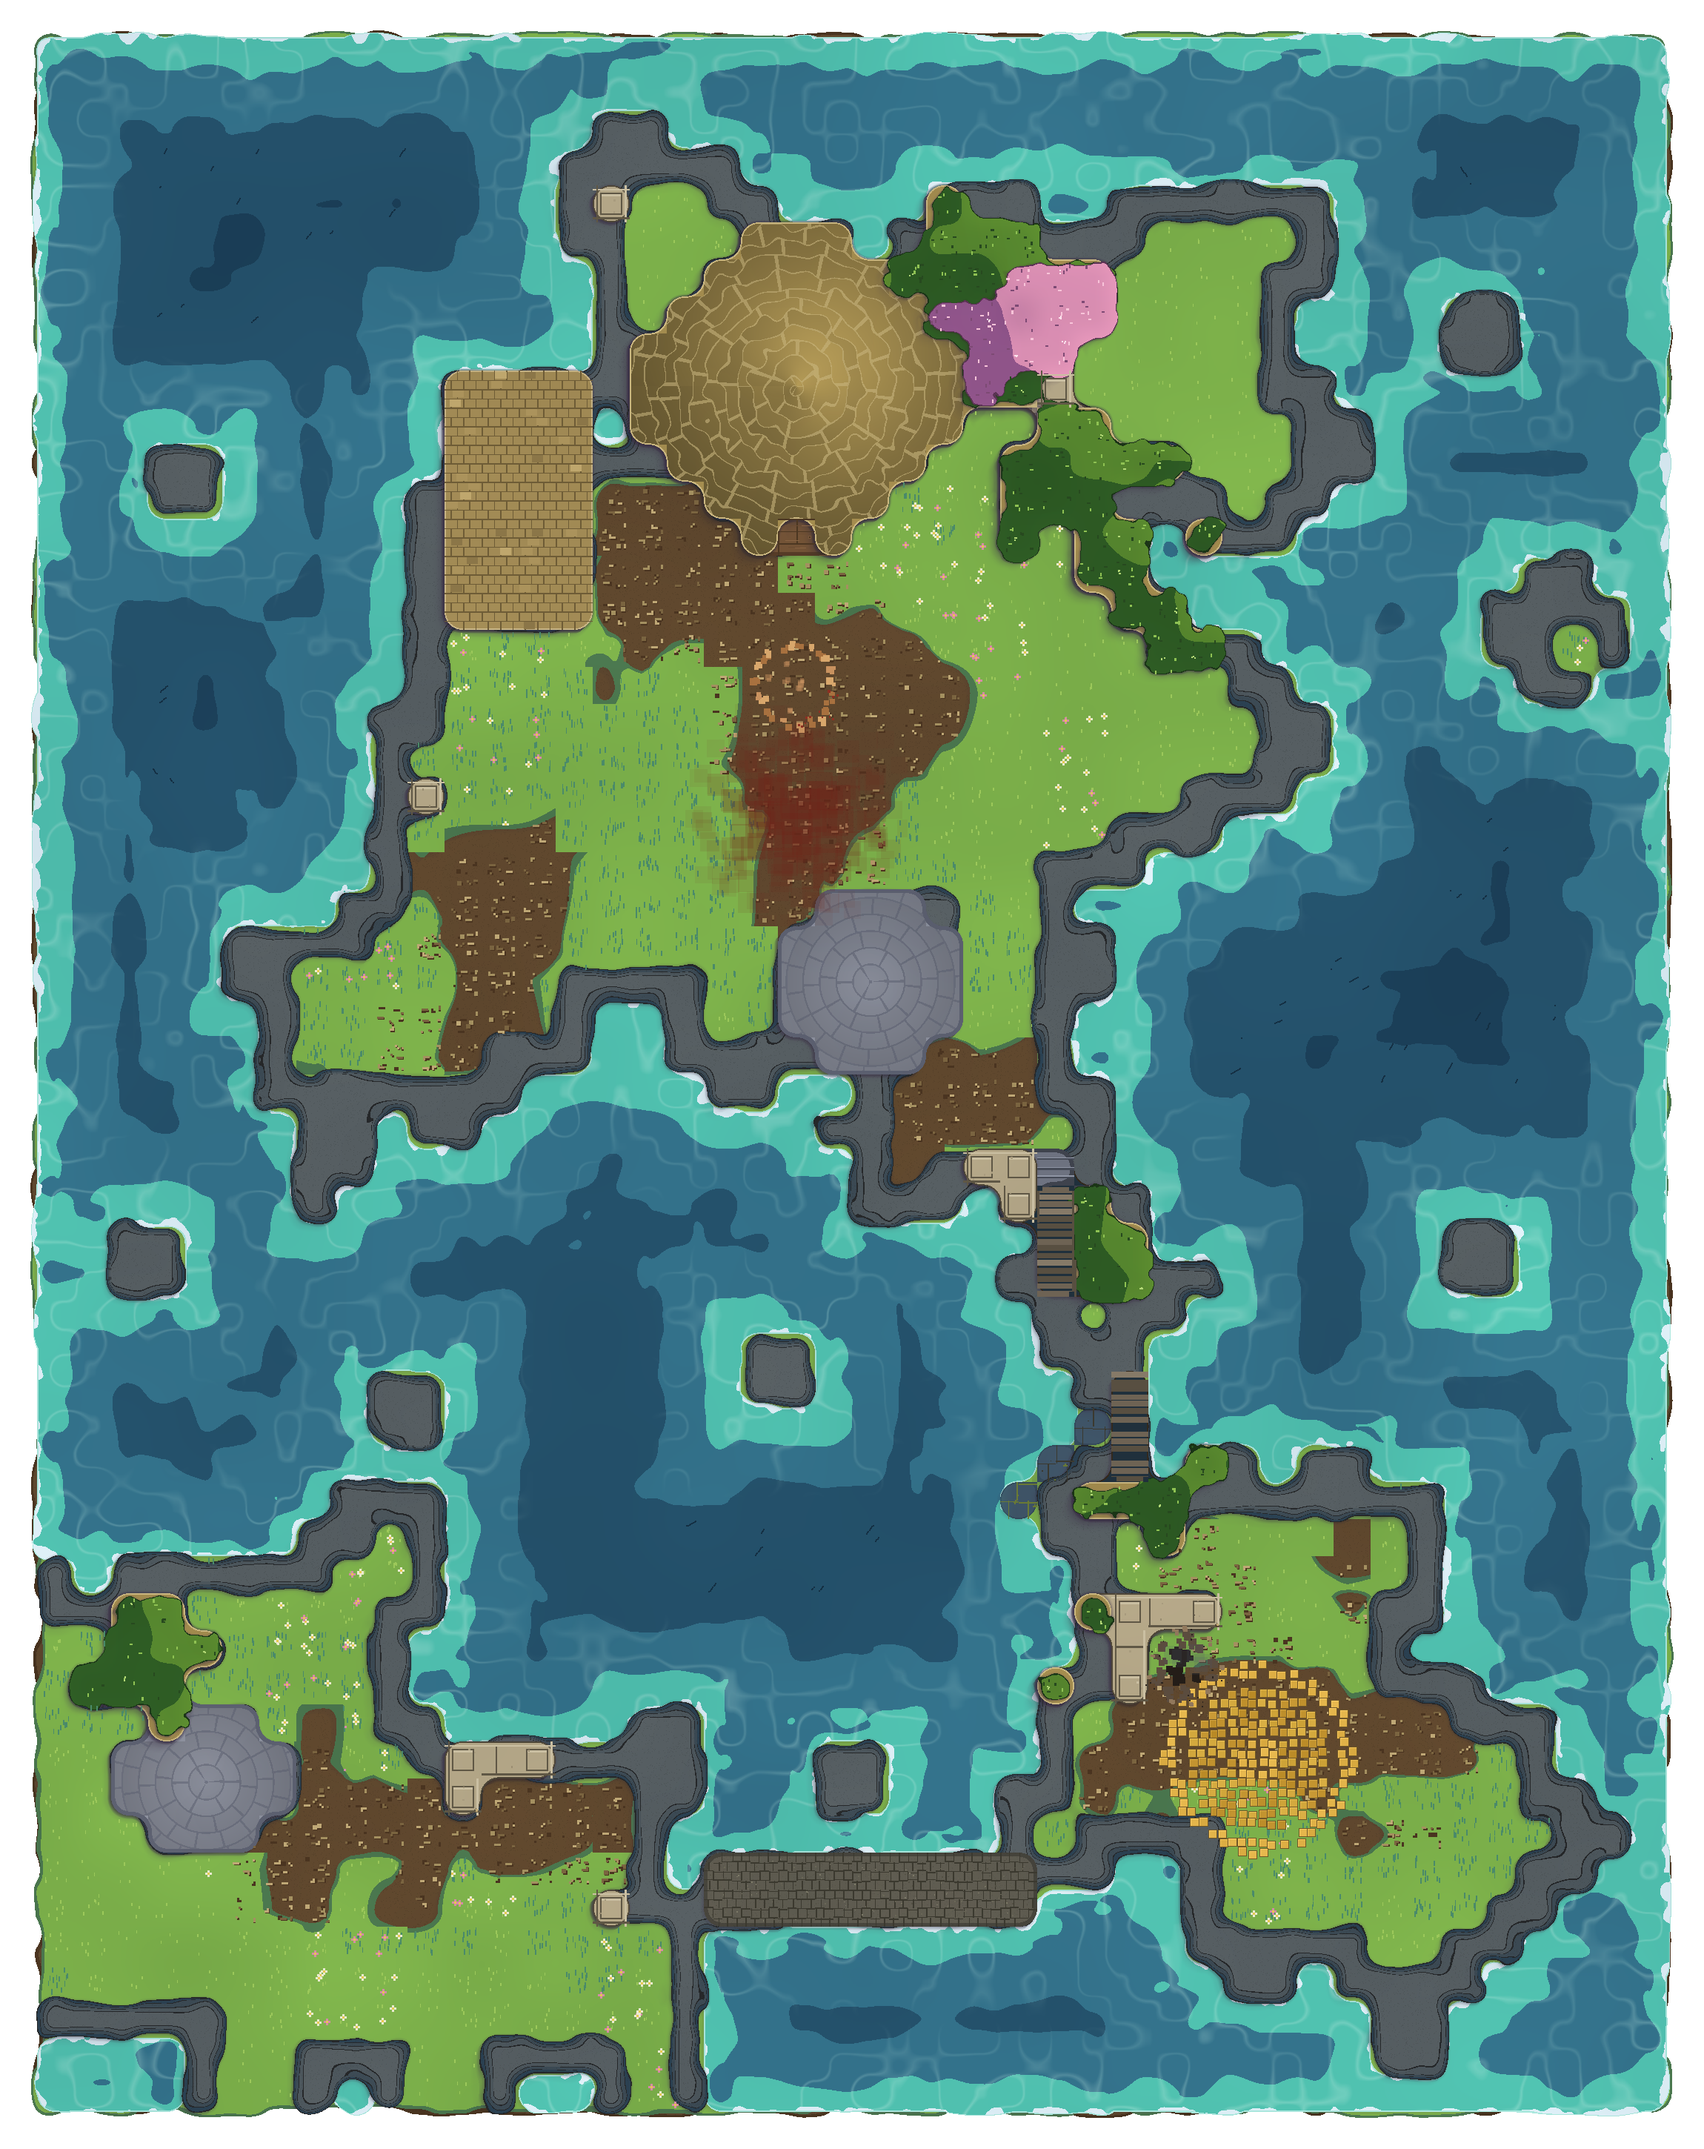
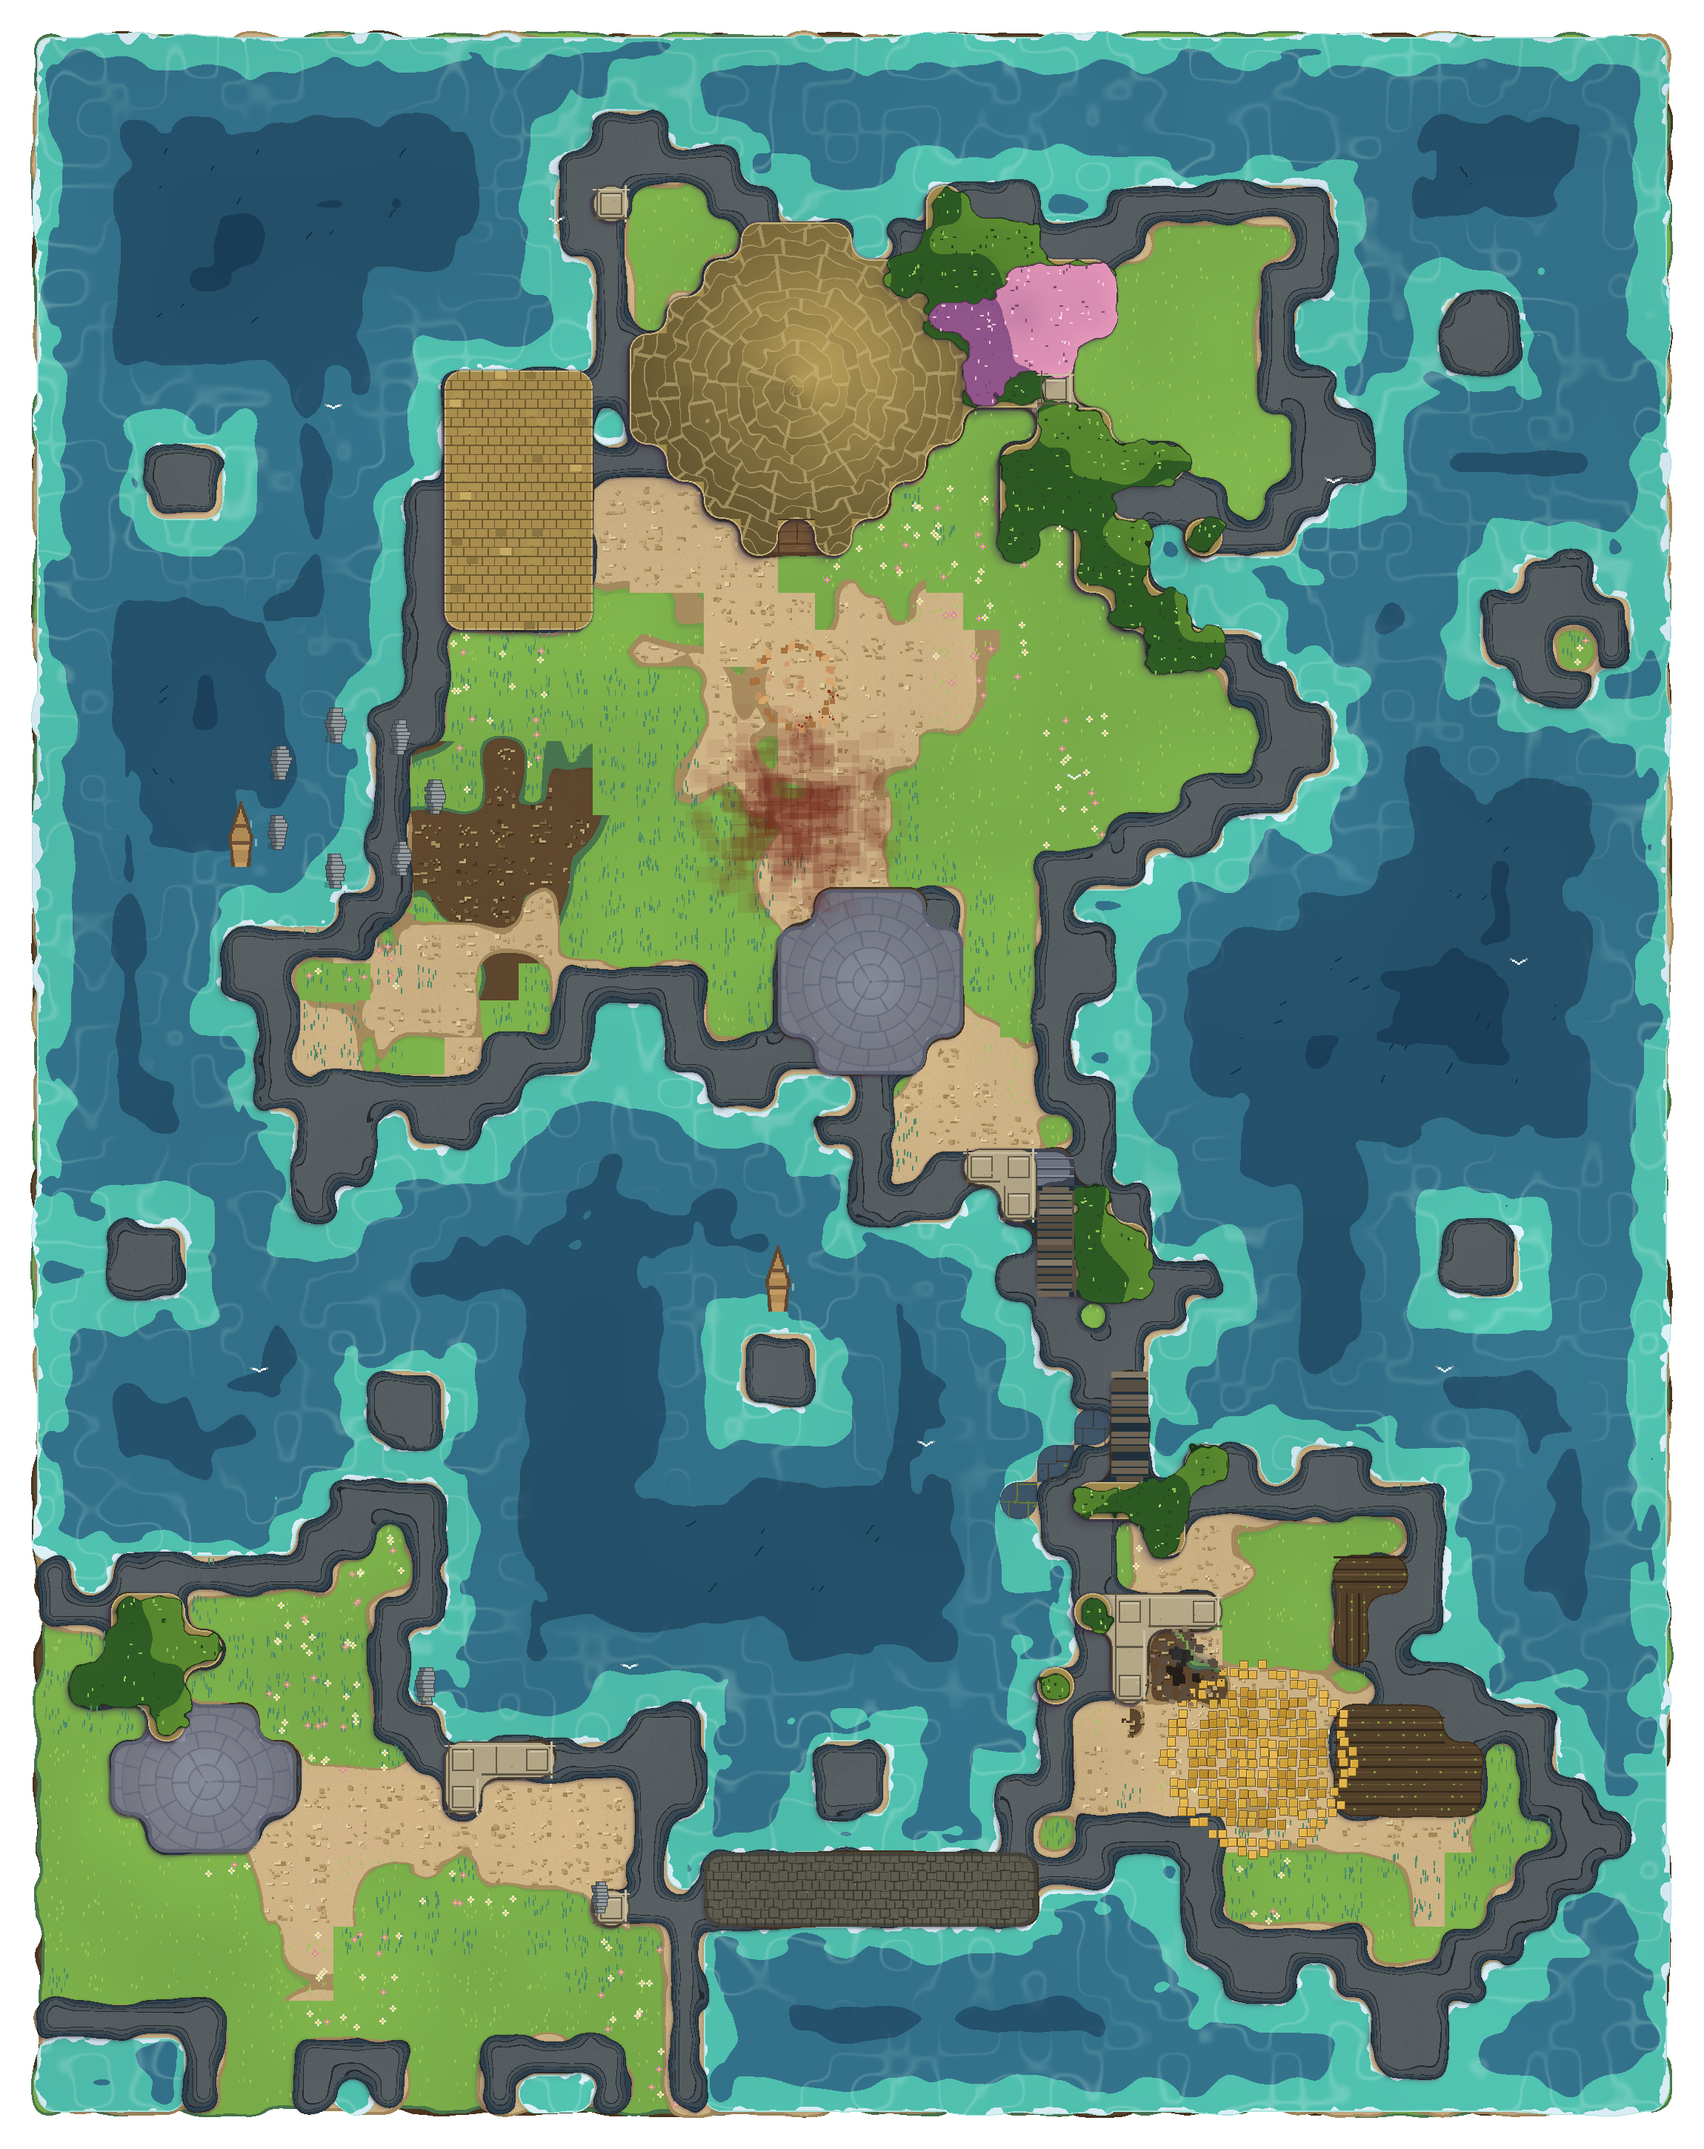
docs(benchmark): delta-pass recompose — sand paths, furrow plots, props
Benchmark fixture regenerated with the delta-list features: the path
web and clearings are warm sand (grass-interleaved), the SE farm is
real furrow plots, the stone circle is menhir stamps, rowboats ride
the channels and gulls fleck the open water. Study doc delta list
updated: items 1-4 shipped same-day; spline-arc bridge dressing,
deeper prop kits, and a worker bake remain.

🤖 Generated by Claude Code (Fable 5)

diff --git a/apps/client/src/features/render/__tests__/zz_benchmarkMapGen.ts b/apps/client/src/features/render/__tests__/zz_benchmarkMapGen.ts
@@ -12,8 +12,9 @@ export interface BenchStampIntent {
   /** stamp CENTRE in cell coords */
   centerX: number;
   centerY: number;
-  /** footprint in cells (square) */
-  cells: number;
+  /** footprint in cells */
+  cellsW: number;
+  cellsH: number;
 }
 
 export interface BenchMap {
@@ -185,16 +186,25 @@ export function buildBenchmarkMap(): BenchMap {
   thickLine(paths, 33, 45, 27, 47, 0.9, 29, 0.8);
   thickLine(paths, 16, 49, 8, 48, 0.9, 30, 0.9);
   thickLine(paths, 8, 48, 6, 51, 0.8, 31, 0.8);
-  for (const k of paths) if (cells.get(k) === "terrain:grass") cells.set(k, "terrain:dirt");
+  // Paths and clearings are warm SAND (the reference's dominant ground read);
+  // sand↔grass interleave gives the hand-painted seam for free.
+  for (const k of paths) if (cells.get(k) === "terrain:grass") cells.set(k, "terrain:sand");
+  // Tilled ground stays dirt (pairs with grass): peninsula patch + firepit yard.
+  const tilled = new Set<string>();
+  blob(tilled, 12, 22, 2.0, 161, 4, 0.3);
+  blob(tilled, 30, 44, 1.5, 162, 4, 0.3);
+  for (const k of tilled)
+    if (cells.get(k) === "terrain:grass" || cells.get(k) === "terrain:sand")
+      cells.set(k, "terrain:dirt");
 
-  // 5. farm plots (SE island): tilled soil rows alternating with crop rows
-  // (grass blades stand in for crops; the interleave roughens the furrows)
+  // 5. farm plots (SE island): the furrow family draws its own sub-cell
+  // ridge rows and crop ticks — plots are plain rects of one family now.
   for (const [px, py, pw, ph] of [[35, 41, 4, 3], [35, 45, 4, 3]] as const) {
     for (let y = py; y < py + ph; y++)
       for (let x = px; x < px + pw; x++) {
         const k = key(x, y);
         if (!seIsland.has(k) || cells.get(k) === "terrain:cliff") continue;
-        cells.set(k, y % 2 === 0 ? "terrain:dirt" : "terrain:grass");
+        cells.set(k, "terrain:farm-furrow");
       }
   }
 
@@ -215,8 +225,8 @@ export function buildBenchmarkMap(): BenchMap {
     if (cells.get(k) === "terrain:grass" || cells.get(k) === "terrain:dirt")
       cells.set(k, "terrain:dais-stone");
 
-  // 7. stone features
-  postRing(cells, 8.5, 20.5, 2.2, 8, 61, "terrain:wall-stone"); // stone circle
+  // 7. stone features (the stone circle itself is menhir STAMPS now — see
+  // the stamps list below)
   // broken compound wall over the N side of the roundhouse plateau
   arcWall(cells, 20.5, 9.5, 7.2, 150, 395, "terrain:wall-stone");
   for (const [x, y] of [[25, 30], [26, 30], [26, 31]] as const) cells.set(key(x, y), "terrain:wall-stone");
@@ -263,11 +273,35 @@ export function buildBenchmarkMap(): BenchMap {
   for (const k of garden) if (main.has(k)) cells.set(k, "terrain:canopy-blossom");
 
   const stamps: BenchStampIntent[] = [
-    { assetId: "inlay:sun-medallion", centerX: 33, centerY: 46.5, cells: 6 },
-    { assetId: "inlay:ceremony-stain", centerX: 20.5, centerY: 21, cells: 6 },
-    { assetId: "decal:wear-ring", centerX: 20.5, centerY: 17.5, cells: 3 },
-    { assetId: "decal:scorch", centerX: 31, centerY: 44, cells: 3 },
+    { assetId: "inlay:sun-medallion", centerX: 33, centerY: 46.5, cellsW: 6, cellsH: 6 },
+    { assetId: "inlay:ceremony-stain", centerX: 20.5, centerY: 21, cellsW: 6, cellsH: 6 },
+    { assetId: "decal:wear-ring", centerX: 20.5, centerY: 17.5, cellsW: 3, cellsH: 3 },
+    { assetId: "decal:scorch", centerX: 31, centerY: 44, cellsW: 3, cellsH: 3 },
+    // rowboats riding the channels
+    { assetId: "objects:boat", centerX: 5.5, centerY: 21.5, cellsW: 1, cellsH: 2 },
+    { assetId: "objects:boat", centerX: 20, centerY: 33.5, cellsW: 1, cellsH: 2 },
   ];
+  // the stone circle: a ring of menhir stamps on the peninsula neck
+  for (let i = 0; i < 7; i += 1) {
+    const th = (i / 7) * Math.PI * 2;
+    const jr = 2.1 * (1 + (hash2(i, 1, 63) - 0.5) * 0.15);
+    stamps.push({
+      assetId: "objects:menhir",
+      centerX: 8.5 + Math.cos(th) * jr,
+      centerY: 20.5 + Math.sin(th) * jr,
+      cellsW: 0.8,
+      cellsH: 1.1,
+    });
+  }
+  // lone menhirs on the SW landmass
+  stamps.push({ assetId: "objects:menhir", centerX: 10.5, centerY: 44.5, cellsW: 0.8, cellsH: 1.2 });
+  stamps.push({ assetId: "objects:menhir", centerX: 15.2, centerY: 50.2, cellsW: 0.7, cellsH: 1 });
+  // gull flecks over open water
+  for (const [gx, gy] of [
+    [8, 10], [14, 5], [35, 12], [40, 25], [6, 36], [24, 38], [16, 44], [38, 36], [28, 20],
+  ] as const) {
+    stamps.push({ assetId: "objects:gull", centerX: gx, centerY: gy, cellsW: 0.5, cellsH: 0.5 });
+  }
 
   return { width: BENCH_W, height: BENCH_H, cells, stamps };
 }

diff --git a/apps/client/src/features/render/__tests__/zz_benchmarkMapDoc.ts b/apps/client/src/features/render/__tests__/zz_benchmarkMapDoc.ts
@@ -25,7 +25,8 @@ export function buildBenchmarkDocument(): MapDocument {
   const terrain = setTerrainCells(createTerrainMap(), writes);
 
   const elements: MapElement[] = bench.stamps.map((stamp, i) => {
-    const sizePx = stamp.cells * BENCH_CELL_PX;
+    const wPx = stamp.cellsW * BENCH_CELL_PX;
+    const hPx = stamp.cellsH * BENCH_CELL_PX;
     return {
       id: `bench-stamp-${i + 1}`,
       layerId: "objects",
@@ -33,13 +34,13 @@ export function buildBenchmarkDocument(): MapDocument {
       locked: false,
       hidden: false,
       transform: {
-        x: stamp.centerX * BENCH_CELL_PX - sizePx / 2,
-        y: stamp.centerY * BENCH_CELL_PX - sizePx / 2,
+        x: stamp.centerX * BENCH_CELL_PX - wPx / 2,
+        y: stamp.centerY * BENCH_CELL_PX - hPx / 2,
         scaleX: 1,
         scaleY: 1,
         rotation: 0,
       },
-      data: { assetId: stamp.assetId, width: sizePx, height: sizePx },
+      data: { assetId: stamp.assetId, width: wPx, height: hPx },
     } as MapElement;
   });
 

diff --git a/docs/planning/island-benchmark-study.md b/docs/planning/island-benchmark-study.md
@@ -33,21 +33,33 @@ own procedural art; nothing is copied._
    perpendicular to the neighbour-mask run over a dark water-shadow base
    (sliver gaps + missing boards), mask-driven stringers, end posts.
 
-## Honest delta — what still separates us from the reference, ranked
+## Honest delta — status after the delta-list pass (2026-07-27, same day)
 
-1. **Sand.** No warm-sand family; paths/clearings are dirt-brown. The
-   reference's sand↔grass interleave is its dominant ground read. Route:
-   a sand family + a second interleave pair (grass↔sand), or palette work.
-2. **Farm furrows.** 1-cell dirt/grass stripes mush through the interleave.
-   Needs a furrow micro-painter (sub-cell ridge rows) or row-stamp crops.
-3. **Thatch at building scale.** The square-thatch longhouse reads as pale
-   brickwork; wants straw-run rows + warmer palette at this zoom.
-4. **Boats, gulls, standing stones.** Prop-kit gap (only crate/table/lamp
-   exist). Boat hull grammar + megalith stamps are catalog entries already.
-5. **Bridge dressing.** Rope sag arcs, X-lashings, plank-striped water
+Items 1–4 SHIPPED working the list top-down (1bd2134 ground pass, prop
+stamps commit following):
+
+1. ~~**Sand.**~~ `terrain:sand` + the second interleave pair (grass↔sand) —
+   the dominant ground read landed; paths/clearings glow warm tan with
+   hand-painted seams.
+2. ~~**Farm furrows.**~~ `terrain:farm-furrow` (`furrow` floor kind):
+   sub-cell trench/ridge rows + crop ticks, run-aware via neighbour mask.
+3. ~~**Thatch at building scale.**~~ Square thatch warmed into the spiral's
+   straw-gold hue family (data-only).
+4. ~~**Boats, gulls, standing stones.**~~ First prop-kit pieces as decal-
+   machinery kinds (`boat`/`gull`/`menhir` — zero wire impact): rowboat
+   hull with wake, gull chevrons, lit/shade menhirs. The benchmark's stone
+   circle is real megaliths now.
+
+Still open, ranked:
+
+1. **Bridge dressing.** Rope sag arcs, X-lashings, plank-striped water
    shadow — deferred to the spline arc with the rest of rank 11's ribbons.
-6. **Water dash flocks** barely appear — channels here rarely exceed the
+2. **Prop-kit depth.** The dinghy/gull/menhir trio proves the route; the
+   catalog's larger hull tiers, carts, racks and crop rows remain.
+3. **Water dash flocks** barely appear — channels here rarely exceed the
    depth-3 gate. Not a bug; wider oceans would show them.
+4. **Main-thread bake cost** — a 6.7 MPx live-bind freezes the tab ~1 min;
+   a worker/chunked bake is a wanted slice.
 
 ## Traps found (and paid for)
 
